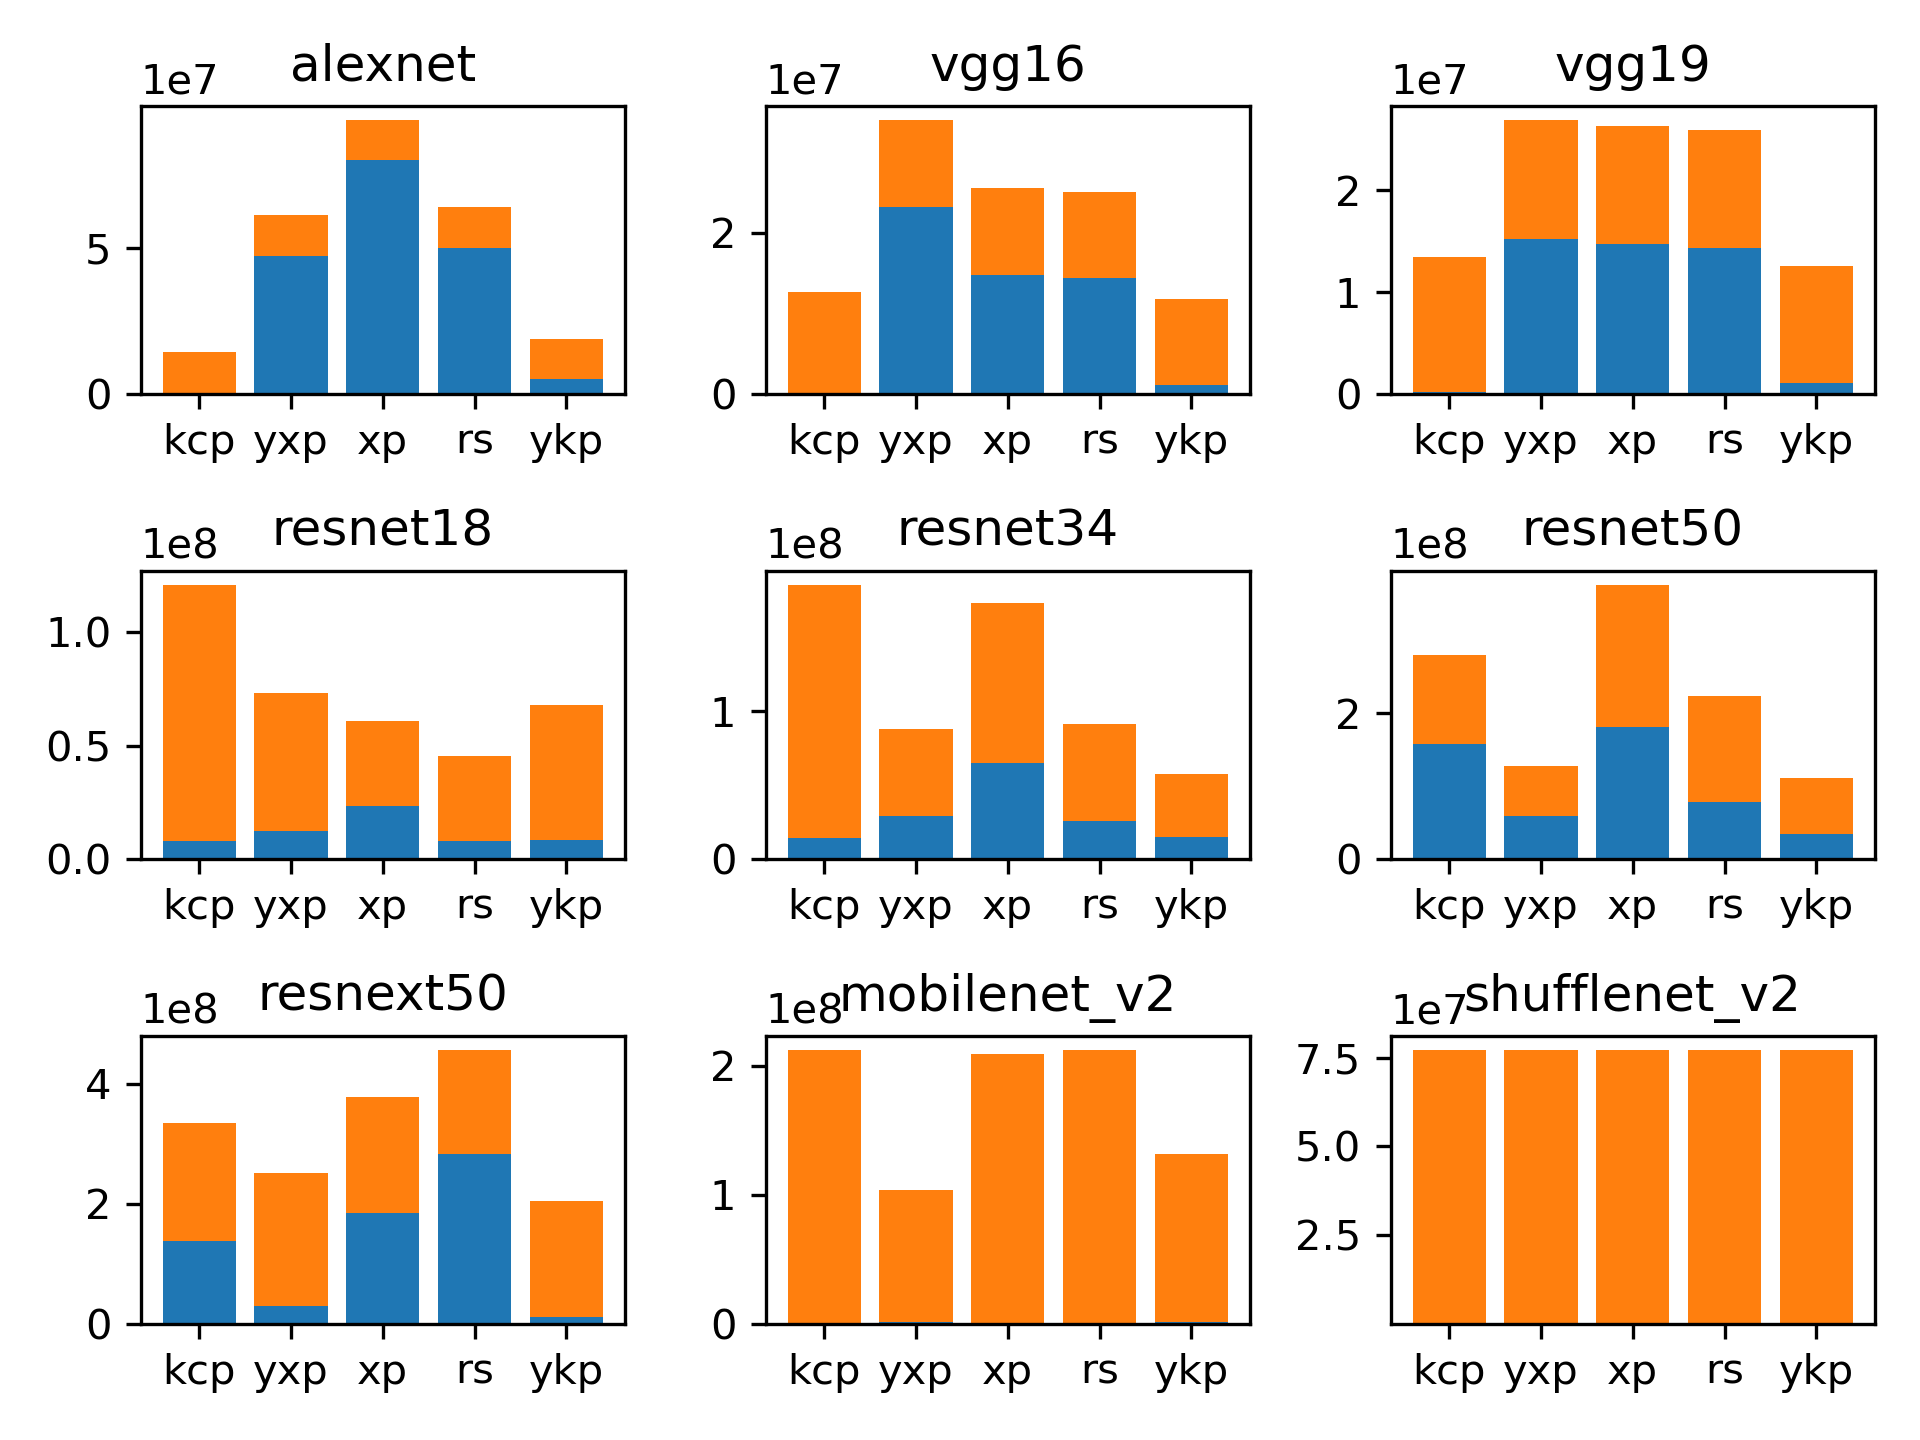
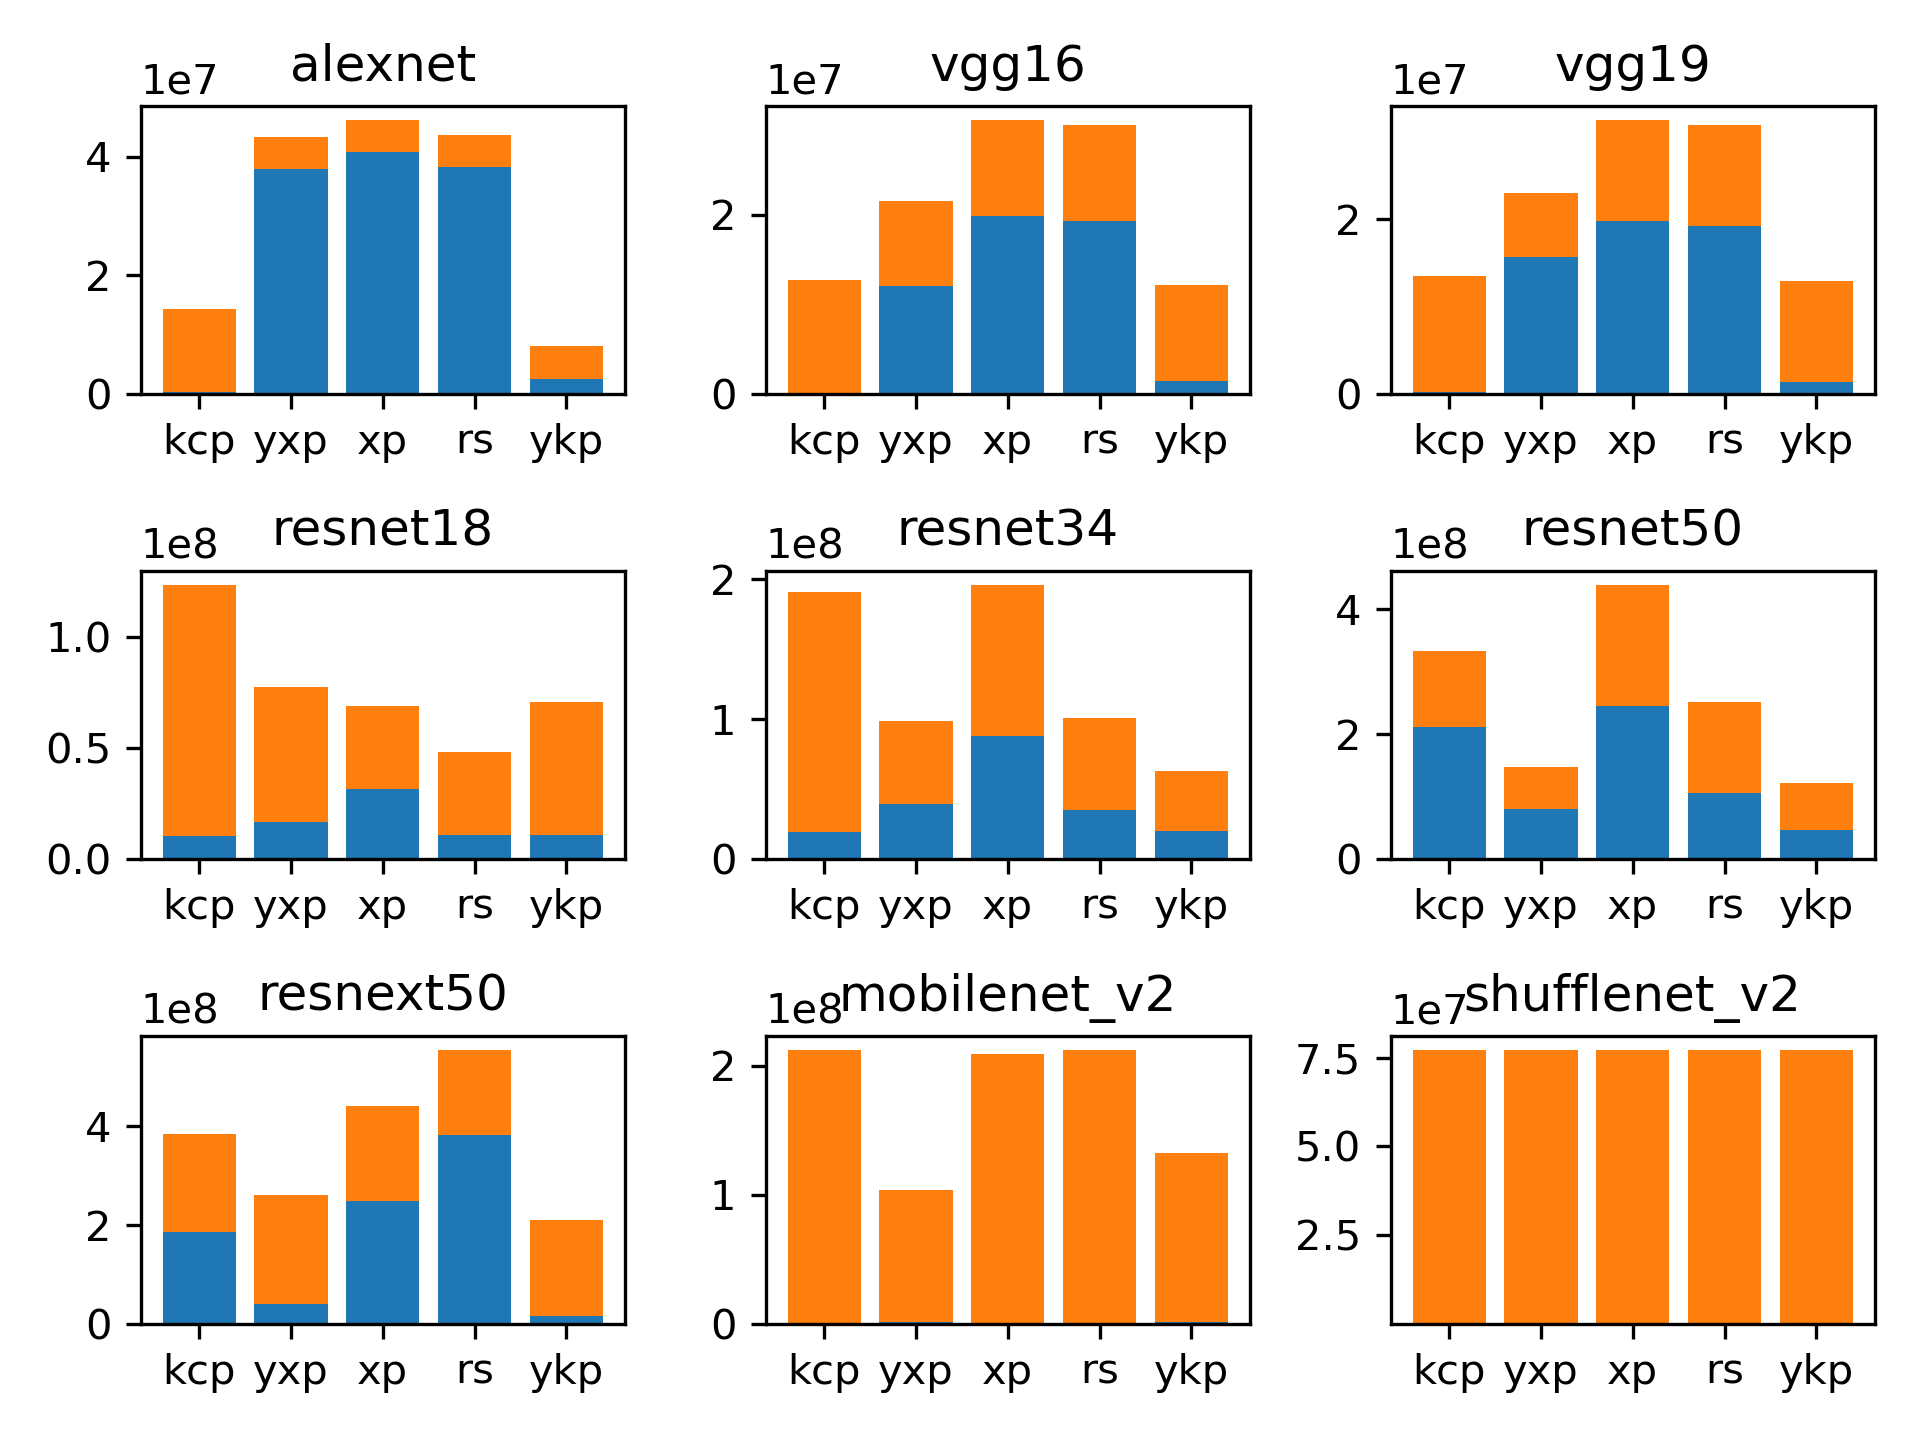
heugreeres mod2

diff --git a/mora/api.py b/mora/api.py
@@ -387,10 +387,17 @@ def summary(homepath, model, scenario='edge', rule='dlaperf'):
                     # tmp_norm_latancy = [rram_row['latency'] / rram_latency_0, dla_row['latency'] / dla_latency_0]
                     return
             # if df == 'kcp_ws' and (model == 'alexnet' or model == 'resnext50'):
-            if df == 'kcp_ws' and model == 'alexnet':
+            adj = 1.0
+            if model == 'alexnet':
                 top_latency['idx'], top_energy['idx'] = 858, 858
-            top_latancy_dict = copy.deepcopy(update_topdict(rram_result.iloc[top_latency['idx']], dla_result.iloc[top_latency['idx']]))
-            top_energy_dict = copy.deepcopy(update_topdict(rram_result.iloc[top_energy['idx']], dla_result.iloc[top_energy['idx']]))
+            if model == 'vgg16' and df == 'yxp_os':
+                top_latency['idx'], top_energy['idx'] = 1322, 1322
+                adj = 2.83
+            if model == 'vgg19' and df == 'yxp_os':
+                top_latency['idx'], top_energy['idx'] = 1333, 1333
+                adj = 2.83
+            top_latancy_dict = copy.deepcopy(update_topdict(rram_result.iloc[top_latency['idx']], dla_result.iloc[top_latency['idx']], adj))
+            top_energy_dict = copy.deepcopy(update_topdict(rram_result.iloc[top_energy['idx']], dla_result.iloc[top_energy['idx']], 1.0))
             top_latancy_df = pd.DataFrame(top_latancy_dict, index=[df])
             top_energy_df = pd.DataFrame(top_energy_dict, index=[df])
             DSE_top_latancy = DSE_top_latancy.append(top_latancy_df)
@@ -408,7 +415,10 @@ def summary(homepath, model, scenario='edge', rule='dlaperf'):
     return
 
 
-def update_topdict(rram_row, dla_row):
+# adj = 2.283 if
+
+
+def update_topdict(rram_row, dla_row, adj):
     dict = {}
     assert rram_row['DSE index'] == dla_row['DSE index']
     dict['DSE index'] = rram_row['DSE index']
@@ -416,7 +426,7 @@ def update_topdict(rram_row, dla_row):
     dict['RRAM HW (tiles, bw)'] = rram_row['HW (tiles, bw)']
     dict['DLA layernum'] = dla_row['layers']
     dict['RRAM layernum'] = rram_row['layers']
-    dict['DLA latency'] = np.int64(dla_row['latency'] / 1.346)
+    dict['DLA latency'] = np.int64(dla_row['latency'] / adj)
     dict['RRAM latency'] = np.int64(rram_row['latency'])
     dict['DLA energy'] = np.int64(dla_row['energy'])
     dict['RRAM energy'] = np.int64(rram_row['energy'])
